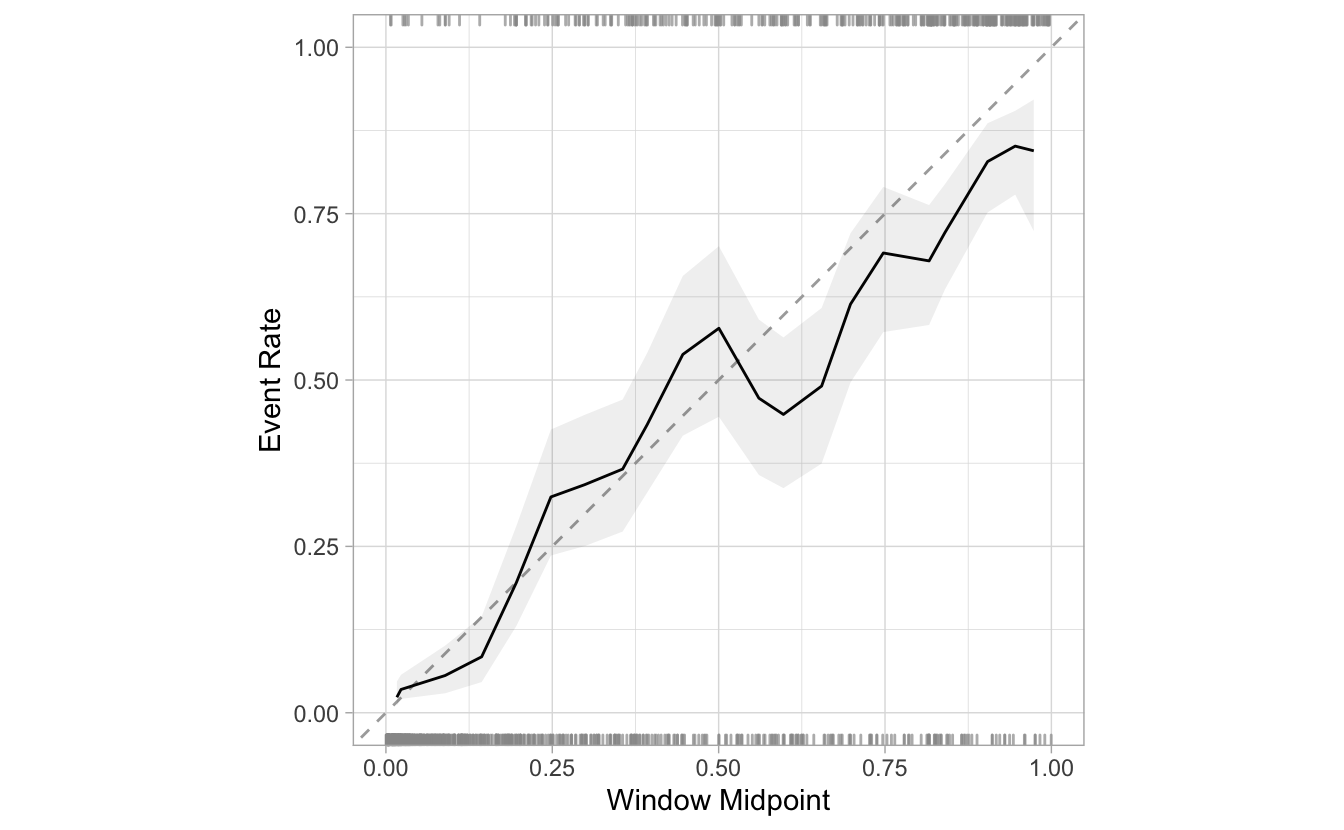
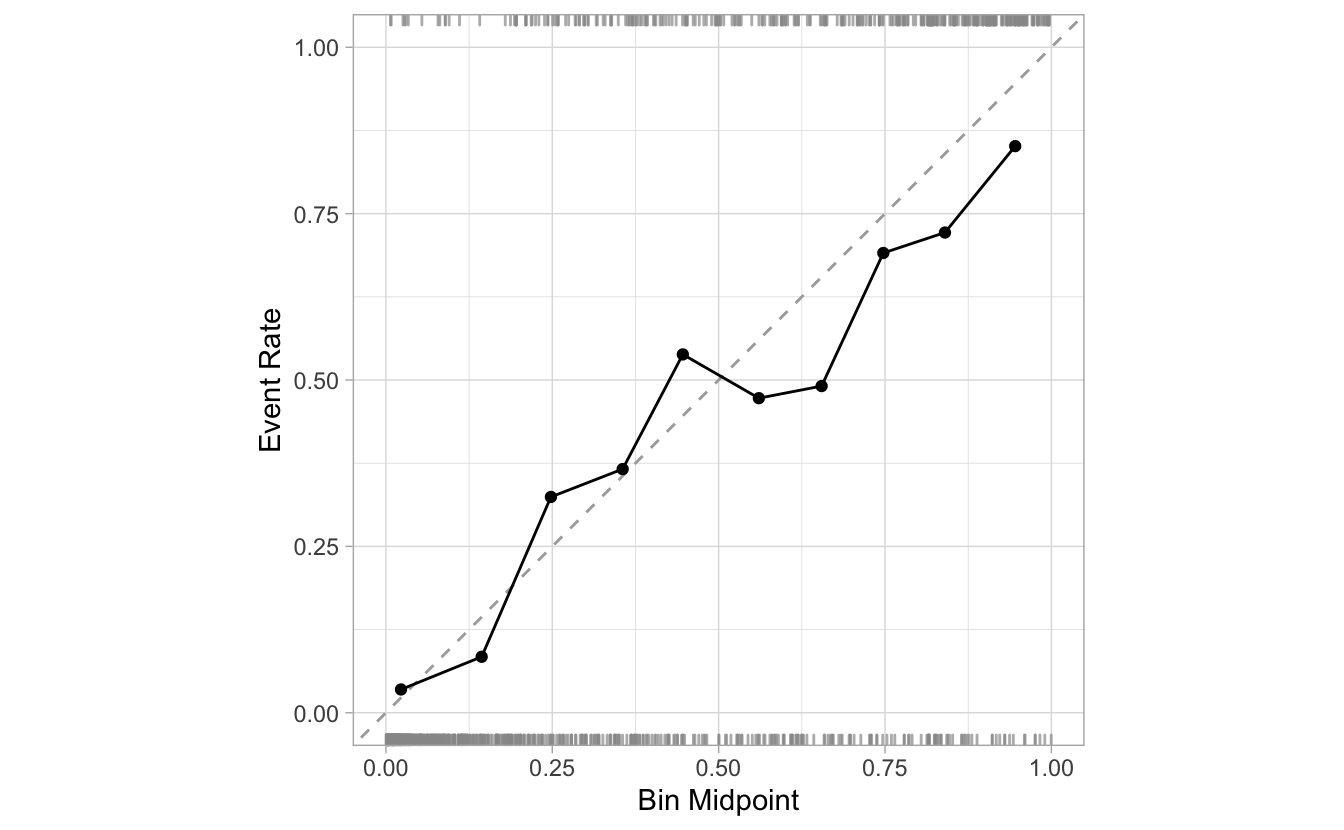
Adds Additional options and features section

diff --git a/content/blog/model-calibration/index.md b/content/blog/model-calibration/index.md
@@ -15,7 +15,7 @@ photo:
 
 categories: [package]
 tags: [model, plots]
-rmd_hash: 9cbc7e021ac2a029
+rmd_hash: df03812658d044be
 
 ---
 
@@ -204,7 +204,11 @@ If smoothing is not needed, a more straightforward logistic model can be used to
 
 </div>
 
-## Additional options
+## Additional options and features
+
+### Intervals
+
+The confidence intervals are visualized using the gray ribbon. The default interval is 0.9, but can be changed using the `conf_level` argument.
 
 <div class="highlight">
 
@@ -215,12 +219,35 @@ If smoothing is not needed, a more straightforward logistic model can be used to
 
 </div>
 
+If desired, the intervals can be removed by setting the `include_ribbon` argument to `FALSE`.
+
 <div class="highlight">
 
 <pre class='chroma'><code class='language-r' data-lang='r'><span><span class='nv'>segment_logistic</span> <span class='o'><a href='https://magrittr.tidyverse.org/reference/pipe.html'>%&gt;%</a></span> </span>
-<span>  <span class='nf'><a href='https://probably.tidymodels.org/reference/cal_plot_breaks.html'>cal_plot_windowed</a></span><span class='o'>(</span><span class='nv'>Class</span>, <span class='nv'>.pred_good</span>, include_points <span class='o'>=</span> <span class='kc'>FALSE</span><span class='o'>)</span></span>
+<span>  <span class='nf'><a href='https://probably.tidymodels.org/reference/cal_plot_breaks.html'>cal_plot_breaks</a></span><span class='o'>(</span><span class='nv'>Class</span>, <span class='nv'>.pred_good</span>, include_ribbon <span class='o'>=</span> <span class='kc'>FALSE</span><span class='o'>)</span></span>
 </code></pre>
 <img src="figs/unnamed-chunk-13-1.png" width="700px" style="display: block; margin: auto;" />
+
+</div>
+
+### Rugs
+
+By default, the calibration plots include a RUGs layer at the top and at the bottom of the visualization. They are meant to give us an idea of the density of events, versus the density of non-events as the probabilities progress from 0 to 1.
+
+<div class="highlight">
+
+<img src="figs/unnamed-chunk-14-1.png" width="700px" style="display: block; margin: auto;" />
+
+</div>
+
+This can layer can be removed by setting `include_rug` to `FALSE`:
+
+<div class="highlight">
+
+<pre class='chroma'><code class='language-r' data-lang='r'><span><span class='nv'>segment_logistic</span> <span class='o'><a href='https://magrittr.tidyverse.org/reference/pipe.html'>%&gt;%</a></span> </span>
+<span>  <span class='nf'><a href='https://probably.tidymodels.org/reference/cal_plot_breaks.html'>cal_plot_breaks</a></span><span class='o'>(</span><span class='nv'>Class</span>, <span class='nv'>.pred_good</span>, include_rug <span class='o'>=</span> <span class='kc'>FALSE</span><span class='o'>)</span> </span>
+</code></pre>
+<img src="figs/unnamed-chunk-15-1.png" width="700px" style="display: block; margin: auto;" />
 
 </div>
 
@@ -290,7 +317,7 @@ If smoothing is not needed, a more straightforward logistic model can be used to
 <span>  <span class='nf'><a href='https://dplyr.tidyverse.org/reference/group_by.html'>group_by</a></span><span class='o'>(</span><span class='nv'>source</span><span class='o'>)</span> <span class='o'><a href='https://magrittr.tidyverse.org/reference/pipe.html'>%&gt;%</a></span></span>
 <span>  <span class='nf'><a href='https://probably.tidymodels.org/reference/cal_plot_breaks.html'>cal_plot_breaks</a></span><span class='o'>(</span><span class='nv'>Class</span>, <span class='nv'>.pred_good</span><span class='o'>)</span></span>
 </code></pre>
-<img src="figs/unnamed-chunk-17-1.png" width="700px" style="display: block; margin: auto;" />
+<img src="figs/unnamed-chunk-19-1.png" width="700px" style="display: block; margin: auto;" />
 
 </div>
 
@@ -300,7 +327,7 @@ If smoothing is not needed, a more straightforward logistic model can be used to
 <span>  <span class='nf'><a href='https://dplyr.tidyverse.org/reference/group_by.html'>group_by</a></span><span class='o'>(</span><span class='nv'>source</span><span class='o'>)</span> <span class='o'><a href='https://magrittr.tidyverse.org/reference/pipe.html'>%&gt;%</a></span> </span>
 <span>  <span class='nf'><a href='https://probably.tidymodels.org/reference/cal_plot_breaks.html'>cal_plot_breaks</a></span><span class='o'>(</span><span class='nv'>Class</span>, <span class='nv'>.pred_good</span><span class='o'>)</span></span>
 </code></pre>
-<img src="figs/unnamed-chunk-18-1.png" width="700px" style="display: block; margin: auto;" />
+<img src="figs/unnamed-chunk-20-1.png" width="700px" style="display: block; margin: auto;" />
 
 </div>
 
